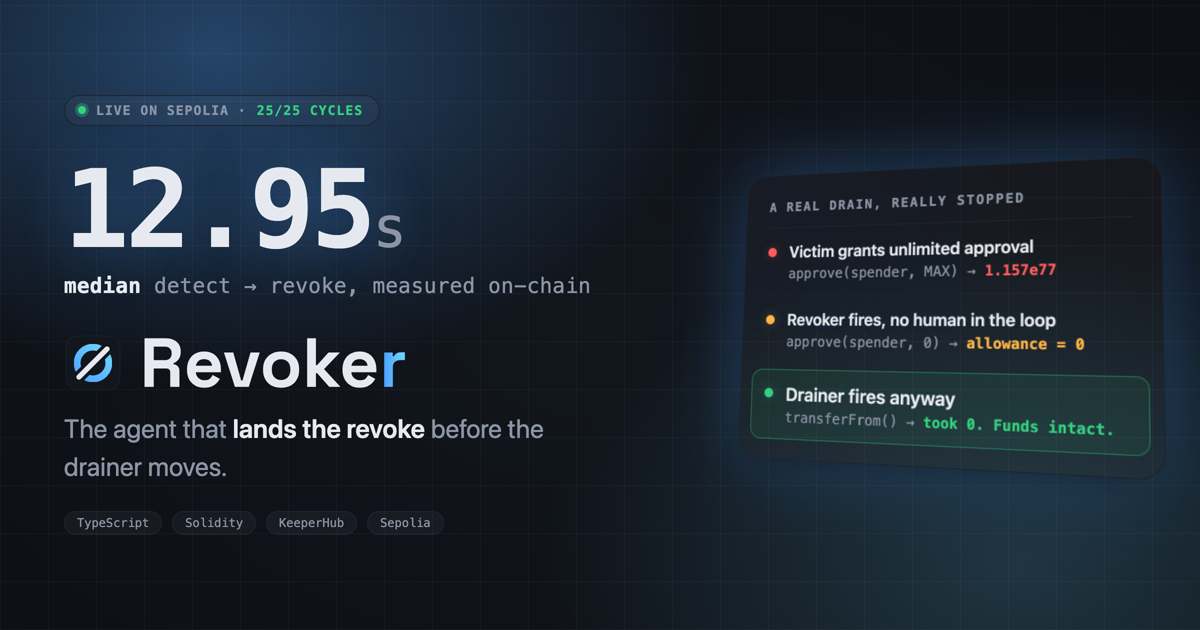
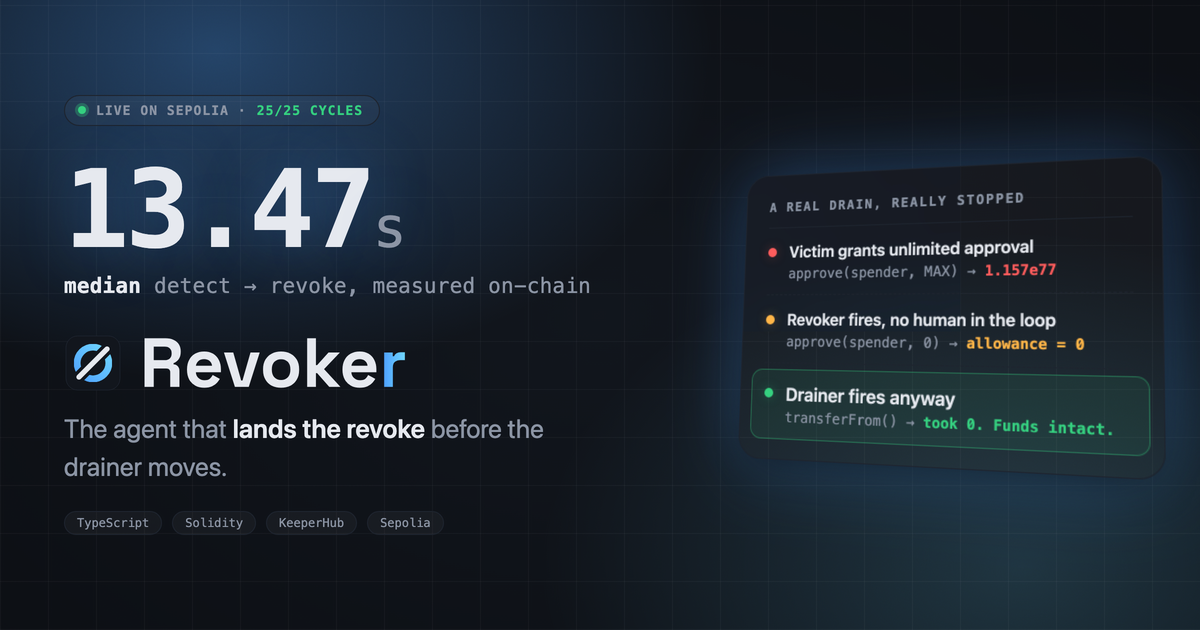
chore: re-run the benchmark on a fresh chain run and propagate the numbers
The demo video was being re-shot, so the whole proof surface was regenerated
from a new 25-cycle run on Sepolia rather than reusing figures measured against
an older set of transactions.

    response  p50 12.95s → 13.47s   p95 24.88s → 25.17s
    exposure  p50 13.38s → 13.71s   p95 25.01s → 25.55s
    gas per revoke  46482 (unchanged)   sponsored 25/25 (unchanged)

Everything downstream is regenerated from BENCHMARK.md, which the benchmark
writes itself — nothing here is hand-typed. That matters most for the per-cycle
arrays behind the landing and pitch charts: each bar links to the transaction it
was measured from, so after a fresh run every hash has to be replaced, not just
the headline figures. Two of the new hashes were re-read off Sepolia to confirm
they resolve and succeeded.

The og-image is regenerated too. It is written back at 1200x630 RGB rather than
the 2400x1260 the exporter produces: the 2x export is four times the weight for
a card that is never displayed above 1200 wide, and quantising it to a palette
instead puts visible banding across the dark gradient.

Changed region(s): [[0.185, 0.2413, 0.3083, 0.3921], [0.0925, 0.3016, 0.1542, 0.3921]]

diff --git a/site/index.html b/site/index.html
@@ -7,7 +7,7 @@
 <meta name="description" content="Revoker autonomously executes approve(spender, 0) through KeeperHub the instant a threat fires — no human in the loop. Proof: a real Sepolia drain, stopped." />
 <meta property="og:type" content="website" />
 <meta property="og:title" content="Revoker — the agent that lands the revoke before the drainer moves" />
-<meta property="og:description" content="Autonomous approval revocation through KeeperHub check-and-execute. A real drain, really stopped — 12.95s median detect→revoke, 25/25 cycles, every step a verifiable Sepolia transaction." />
+<meta property="og:description" content="Autonomous approval revocation through KeeperHub check-and-execute. A real drain, really stopped — 13.47s median detect→revoke, 25/25 cycles, every step a verifiable Sepolia transaction." />
 <meta property="og:url" content="https://revoker.edycu.dev/" />
   <meta property="og:image" content="https://revoker.edycu.dev/assets/og-image.png" />
   <meta property="og:image:width" content="1200" />
@@ -572,8 +572,8 @@ td.hot{color:var(--text); font-weight:700}
 
       <div class="statband">
         <div class="stat reveal">
-          <span class="stat-v"><span class="count" data-to="12.95" data-dec="2">12.95</span><span class="unit">s</span></span>
-          <span class="stat-l">median detect &rarr; revoke<br>(p95 24.88s)</span>
+          <span class="stat-v"><span class="count" data-to="13.47" data-dec="2">13.47</span><span class="unit">s</span></span>
+          <span class="stat-l">median detect &rarr; revoke<br>(p95 25.17s)</span>
         </div>
         <div class="stat reveal">
           <span class="stat-v"><span class="count" data-to="25" data-dec="0">25</span><span class="unit">/25</span></span>
@@ -808,7 +808,7 @@ td.hot{color:var(--text); font-weight:700}
           <tbody>
             <tr>
               <td class="rowlabel">response — detection &rarr; revoke confirmed</td>
-              <td class="hot">12.95s</td><td>24.88s</td><td>10.33s</td><td>24.95s</td>
+              <td class="hot">13.47s</td><td>25.17s</td><td>9.31s</td><td>26.55s</td>
             </tr>
             <tr>
               <td class="rowlabel">exposure — threat live &rarr; revoke confirmed</td>
@@ -992,39 +992,39 @@ td.hot{color:var(--text); font-weight:700}
 
   /* ---------- benchmark chart: real per-cycle data from BENCHMARK.md ---------- */
   var CYCLES = [
[50 lines of base64/hex data omitted]
   ];
-  var MAX = 25.28, P50 = 12.95, P95 = 24.88;
+  var MAX = 26.71, P50 = 13.47, P95 = 25.17;
   var bars = document.getElementById('bars');
   if (bars) {
     var frame = document.getElementById('chart-frame');
     /* frame is 150px with 14px top / 10px bottom padding → bars area is 126px,
        so a value v sits at bottom: (10 + v/MAX*126) / 150 of the frame. */
-    [[P50, 'p50 12.95s', false], [P95, 'p95 24.88s', true]].forEach(function (r) {
+    [[P50, 'p50 13.47s', false], [P95, 'p95 25.17s', true]].forEach(function (r) {
       var line = document.createElement('div');
       line.className = 'refline';
       line.style.bottom = ((10 + r[0] / MAX * 126) / 150 * 100).toFixed(1) + '%';

diff --git a/site/pitch.html b/site/pitch.html
@@ -667,8 +667,8 @@ h2{font-size:72px; line-height:1.06}
     <p class="eyebrow">Reliability &middot; 25 full cycles against live Sepolia</p>
     <h2>Measured, not claimed.</h2>
     <div class="statband">
-      <div class="stat"><span class="stat-v">12.95<span class="unit">s</span></span><span class="stat-l">median detect &rarr; revoke</span></div>
-      <div class="stat"><span class="stat-v">24.88<span class="unit">s</span></span><span class="stat-l">p95</span></div>
+      <div class="stat"><span class="stat-v">13.47<span class="unit">s</span></span><span class="stat-l">median detect &rarr; revoke</span></div>
+      <div class="stat"><span class="stat-v">25.17<span class="unit">s</span></span><span class="stat-l">p95</span></div>
       <div class="stat"><span class="stat-v">25<span class="unit">/25</span></span><span class="stat-l">cycles succeeded</span></div>
       <div class="stat"><span class="stat-v">46,482</span><span class="stat-l">gas per revoke (p50 = p95)</span></div>
     </div>
@@ -682,7 +682,7 @@ h2{font-size:72px; line-height:1.06}
       <span><b>86</b> tests — 44 TypeScript &middot; 42 Solidity</span>
       <span><b>100%</b> Solidity coverage — lines &middot; statements &middot; branches &middot; functions</span>
     </div>
-    <aside class="speaker-notes">Reliability, measured: twenty-five out of twenty-five cycles, 12.95 seconds median, gas identical at the p50 and p95. The amber bars are four consecutive cycles that hit a slow block window — that's the network, and we report the distribution instead of averaging it away. Behind it: 86 tests and 100 percent Solidity coverage on every axis.</aside>
+    <aside class="speaker-notes">Reliability, measured: twenty-five out of twenty-five cycles, 13.47 seconds median, gas identical at the p50 and p95. The amber bars are four consecutive cycles that hit a slow block window — that's the network, and we report the distribution instead of averaging it away. Behind it: 86 tests and 100 percent Solidity coverage on every axis.</aside>
   </section>
 
   <!-- ═══════════════ 10 · LIMITS ═══════════════ -->
@@ -777,31 +777,31 @@ h2{font-size:72px; line-height:1.06}
 
   /* ---------- benchmark chart: real per-cycle data from BENCHMARK.md ---------- */
   var CYCLES = [
[50 lines of base64/hex data omitted]
   ];
   var MAX = 25.28;
   var bars = document.getElementById('bars');
@@ -809,7 +809,7 @@ h2{font-size:72px; line-height:1.06}
     var frame = document.getElementById('chart-frame');
     /* frame is 300px with 18px top / 14px bottom padding → plot area 268px,
        so a value v sits at bottom: (14 + v/MAX*268) / 300 of the frame */
-    [[12.95, 'p50 12.95s', false], [24.88, 'p95 24.88s', true]].forEach(function (r) {
+    [[13.47, 'p50 13.47s', false], [25.17, 'p95 25.17s', true]].forEach(function (r) {
       var line = document.createElement('div');
       line.className = 'refline';
       line.style.bottom = ((14 + r[0] / MAX * 268) / 300 * 100).toFixed(1) + '%';

diff --git a/BENCHMARK.md b/BENCHMARK.md
@@ -1,6 +1,6 @@
 # Benchmark — detect→revoke
 
-> Generated by `pnpm bench` on 2026-08-08T00:37:05.896Z. Network: Ethereum Sepolia (11155111).
+> Generated by `pnpm bench` on 2026-08-08T07:06:29.397Z. Network: Ethereum Sepolia (11155111).
 > 25/25 cycles succeeded.
 
 ## What was measured
@@ -19,8 +19,8 @@ reading the chain, not by trusting the execution report.
 
 | Metric | p50 | p95 | min | max |
 |---|---|---|---|---|
-| response | 12.95s | 24.88s | 10.33s | 24.95s |
-| exposure | 13.38s | 25.01s | 10.47s | 25.28s |
+| response | 13.47s | 25.17s | 9.31s | 26.55s |
+| exposure | 13.71s | 25.55s | 9.72s | 26.71s |
 
 Gas per revoke: p50 **46482**, p95 **46482**.
 Sponsored by KeeperHub in 25/25 cycles.
@@ -51,28 +51,28 @@ Requires `KH_API_KEY`, `KH_WALLET_ADDRESS` and a funded Turnkey wallet. See READ
 
 | # | response | exposure | gas | tx |
 |---|---|---|---|---|
-| 1 | 12.06s | 12.40s | 46482 | [`0x77f6e43f…`](https://sepolia.etherscan.io/tx/0x77f6e43f9a701c52a4a0472a719be6307e4f760e9d03b7d54f615da25856dbf9) |
-| 2 | 12.47s | 12.80s | 46482 | [`0x5f7bba9d…`](https://sepolia.etherscan.io/tx/0x5f7bba9dc09d0bf99be82e5d7a905d330ea50e33b7c6cd94ba095a8de46dc25f) |
-| 3 | 11.91s | 12.26s | 46482 | [`0xf7a3a9cd…`](https://sepolia.etherscan.io/tx/0xf7a3a9cd28bbc62b111b7bc5c53a718b8fb664803b695a9a567a31ff5910765d) |
-| 4 | 13.60s | 13.91s | 46482 | [`0x2ab6e0c9…`](https://sepolia.etherscan.io/tx/0x2ab6e0c9493f241ca66a198ca885ae7fe7b493064c34a8c0dd4c832c0972f5db) |
-| 5 | 12.40s | 13.06s | 46482 | [`0x35a469b8…`](https://sepolia.etherscan.io/tx/0x35a469b8b8a2e8256acb4da9c834e67b8ef97275fb395b5b1faedda26f9ede96) |
-| 6 | 10.33s | 10.47s | 46482 | [`0xebc4b328…`](https://sepolia.etherscan.io/tx/0xebc4b3285721123ccd84d426a55f0a4094cab117781a57e1453af016fc48a065) |
-| 7 | 13.41s | 13.61s | 46482 | [`0x72167a29…`](https://sepolia.etherscan.io/tx/0x72167a29f8f5fd5e4093c1e6d5b28372717bd2ad12d0f46b93a08ed5692ed7f4) |
-| 8 | 12.59s | 12.88s | 46482 | [`0x368586b9…`](https://sepolia.etherscan.io/tx/0x368586b9188b2c264c8fe3379f174d507fba2951799033f259cd63fa35bcd712) |
-| 9 | 13.27s | 13.42s | 46458 | [`0x4a5962c0…`](https://sepolia.etherscan.io/tx/0x4a5962c0ce9bdb36732c205000ec6c62f1ff31f3e1df469cd68126ede7e52912) |
-| 10 | 24.95s | 25.28s | 46482 | [`0xd831c52d…`](https://sepolia.etherscan.io/tx/0xd831c52d270f53fc0c2b8de7a7c31850fb83c29e8c1b4b1e28bd938ede6b8be5) |
-| 11 | 22.60s | 23.00s | 46470 | [`0x5f9b3ad9…`](https://sepolia.etherscan.io/tx/0x5f9b3ad9021d8f486a2b25bafc37aba9fc26480c52ff6587575241b4324ed774) |
-| 12 | 23.48s | 23.85s | 46470 | [`0x626d893f…`](https://sepolia.etherscan.io/tx/0x626d893f26de7512e54d5db913ab6941205e76d9c1b8861b91d1af73efc6478b) |
-| 13 | 24.88s | 25.01s | 46482 | [`0x66ded1b5…`](https://sepolia.etherscan.io/tx/0x66ded1b5548c0cb46c531577ed1a0cc873a24f28380646f23d12b2ddb3864829) |
-| 14 | 12.95s | 13.32s | 46482 | [`0xbb3d8c34…`](https://sepolia.etherscan.io/tx/0xbb3d8c34b5dc10b8df1d707316b821274e3862327a616b86d0fa15149d1acdde) |
-| 15 | 12.86s | 13.00s | 46482 | [`0xafc93446…`](https://sepolia.etherscan.io/tx/0xafc93446a6a003b7442ba617b82056b1604a63aa1ff7c8e122a2f9b699ddcffb) |
-| 16 | 12.77s | 13.09s | 46482 | [`0x7bd1b54d…`](https://sepolia.etherscan.io/tx/0x7bd1b54d4d00ffb9659bdb6c6e8347c85837ba78507beba6289e703d8bf62cfd) |
-| 17 | 12.74s | 12.89s | 46482 | [`0xf65640d8…`](https://sepolia.etherscan.io/tx/0xf65640d824434ccc491cd51a3825259a3825ccb86c6115075066fbf33669d75b) |
-| 18 | 13.60s | 13.76s | 46482 | [`0x0f628f80…`](https://sepolia.etherscan.io/tx/0x0f628f80aa686cc0390a0ef4ba06fd1ba8531f7616e2acc37b690ad5303f0393) |
-| 19 | 12.71s | 13.20s | 46482 | [`0xd8769ad2…`](https://sepolia.etherscan.io/tx/0xd8769ad2319528bc7157964b289d80b382c62814447c5e4e6a35177e4a646475) |
-| 20 | 12.82s | 13.18s | 46470 | [`0x12eb7240…`](https://sepolia.etherscan.io/tx/0x12eb7240c2f7a6c76a5b26fb2c928b79caf0cb7865031c154e36fe8a66483e6c) |
-| 21 | 12.63s | 13.38s | 46482 | [`0x9b01908d…`](https://sepolia.etherscan.io/tx/0x9b01908d6c60332d5492d614b1bb0a62ee119e60bf058ff1fa0c89035c64f5fd) |
-| 22 | 13.62s | 13.75s | 46482 | [`0x68a3be30…`](https://sepolia.etherscan.io/tx/0x68a3be305e911322f5b3275a7cc8eacccb8a408dbc646384fd5d236180f878d8) |
-| 23 | 13.33s | 13.63s | 46482 | [`0x7fba3a08…`](https://sepolia.etherscan.io/tx/0x7fba3a082c7ed7b5fb6cf6bafff1e8e4c05fccbc925e517ea3008806e03bcf6e) |
-| 24 | 13.40s | 13.60s | 46482 | [`0xfe63a209…`](https://sepolia.etherscan.io/tx/0xfe63a209b9d8a1615525eb6c71a79b4539d6099f5c7bc2657412230bb87e23fa) |
-| 25 | 13.72s | 14.08s | 46482 | [`0xd07984bc…`](https://sepolia.etherscan.io/tx/0xd07984bc414c3eda85230ab80893ebf1e7c7f04996b23393c78045e0027204fc) |
+| 1 | 25.17s | 25.55s | 46482 | [`0x3bd33bbb…`](https://sepolia.etherscan.io/tx/0x3bd33bbb4b379f8ec746d7e0b3205565f74a951da1a874a5893a56b5b29fd390) |
+| 2 | 12.21s | 12.36s | 46470 | [`0x2c11419b…`](https://sepolia.etherscan.io/tx/0x2c11419b27756413bc484661b02a0c441280adbe365e430c48f0e4b2b29358d6) |
+| 3 | 13.52s | 13.89s | 46482 | [`0x2347c5fe…`](https://sepolia.etherscan.io/tx/0x2347c5feceeca5ed848b6c181f5aa56cf259c69185021ce4f9e2a29cac953b32) |
+| 4 | 13.55s | 13.84s | 46482 | [`0x9efd85d2…`](https://sepolia.etherscan.io/tx/0x9efd85d2b3d009024928ce151dc948fdabd0ec91d98fc7bafe14a1dcbe8a41c5) |
+| 5 | 12.55s | 12.93s | 46470 | [`0xd2268708…`](https://sepolia.etherscan.io/tx/0xd22687088d58c27c2bc84336f6bc962bf8e97b5559f5705c18b5bff2394985ce) |
+| 6 | 13.38s | 13.58s | 46482 | [`0xb7ea0fbd…`](https://sepolia.etherscan.io/tx/0xb7ea0fbdbc5da30b445cb640ffd4135471b68b772ac2366b958b3721c98437ee) |
+| 7 | 13.34s | 13.55s | 46470 | [`0xb49e5188…`](https://sepolia.etherscan.io/tx/0xb49e51883099c7ebe1f8acc8c6cf43f297b0a97a464687f0a50c568d8502eeb6) |
+| 8 | 13.47s | 13.87s | 46482 | [`0x60ff32eb…`](https://sepolia.etherscan.io/tx/0x60ff32ebe82285e6a57b03c754fc18dbc7baed61586e919e7d5666fb71c07ec9) |
+| 9 | 13.49s | 13.71s | 46470 | [`0xd5ac191f…`](https://sepolia.etherscan.io/tx/0xd5ac191f8a552a883e59f396006b8adcdb19b81430f961a5589f9b2c454e1146) |
+| 10 | 13.55s | 13.92s | 46482 | [`0x4db55891…`](https://sepolia.etherscan.io/tx/0x4db55891e703f41e10d5af8577c8a0c2becd2649a2291e4b9e5d68b46de94a59) |
+| 11 | 14.91s | 15.33s | 46482 | [`0x7e9a2287…`](https://sepolia.etherscan.io/tx/0x7e9a228797c97449bbec544332c3495d1b3d3c2d39d5f5d6dac73caebb903a40) |
+| 12 | 12.72s | 12.88s | 46482 | [`0xc205a583…`](https://sepolia.etherscan.io/tx/0xc205a58388b5e4228c596fabf4fc0d3b493f8fb2ebc10bc5c40f006964fc72e3) |
+| 13 | 26.55s | 26.71s | 46482 | [`0xbc335472…`](https://sepolia.etherscan.io/tx/0xbc335472fad41e9d46958fe47b30290ba6e863c98d35133880662aac3a047feb) |
+| 14 | 9.31s | 9.72s | 46482 | [`0xec2657bc…`](https://sepolia.etherscan.io/tx/0xec2657bc0d4dc2bfb3acefa78ec29aeae252fb110f6463b5c82187a61ebe3513) |
+| 15 | 12.24s | 12.56s | 46470 | [`0x9109fea7…`](https://sepolia.etherscan.io/tx/0x9109fea7631d117eb3b33e27446dc79c1616a49e276f0c5ea8fd06058f4b61ca) |
+| 16 | 9.87s | 10.18s | 46482 | [`0x97c38f11…`](https://sepolia.etherscan.io/tx/0x97c38f118e42f8c3edbef64d0621251414ee57f23d8c25e2400916f862c43879) |
+| 17 | 13.15s | 13.29s | 46482 | [`0x5965349b…`](https://sepolia.etherscan.io/tx/0x5965349b0d8b7ca1c653828e319466bcac94595c6c3fa30e69362ab510744b64) |
+| 18 | 24.39s | 24.69s | 46482 | [`0xab8a4e7b…`](https://sepolia.etherscan.io/tx/0xab8a4e7beef177d22048c119fe962d3d0ac981dd5dc12f834511e91f2ef01e25) |
+| 19 | 11.73s | 12.13s | 46482 | [`0x69566a1d…`](https://sepolia.etherscan.io/tx/0x69566a1df5e6a183a519ee6e3381743bf906f1f235484f00c46c88e741c0a776) |
+| 20 | 12.77s | 13.14s | 46482 | [`0x55157993…`](https://sepolia.etherscan.io/tx/0x551579937bc9519c3f8c5be1596a111e0406d1272782275dcdb6d71f959cfcc7) |
+| 21 | 11.90s | 12.05s | 46482 | [`0x08eab4b2…`](https://sepolia.etherscan.io/tx/0x08eab4b20e414b11474a61c222182e06f5b351ff3aaa04a9e4dc1fbd44ac9275) |
+| 22 | 13.53s | 13.86s | 46482 | [`0x88bdfc9a…`](https://sepolia.etherscan.io/tx/0x88bdfc9aa60a9eb1268fa4d8e48f1eef8338b18a77b029e6aef32f9eec0a680f) |
+| 23 | 13.62s | 13.77s | 46470 | [`0x15b32cbf…`](https://sepolia.etherscan.io/tx/0x15b32cbf62202bb1b4fae5f667a6fd45e635b0c60f355a0e504a014dc915bfe1) |
+| 24 | 13.78s | 13.93s | 46482 | [`0x9b0452de…`](https://sepolia.etherscan.io/tx/0x9b0452de80c5a1aba69bea56e324a4f4553d5dc6cd196b730f19aa6b09d4cd11) |
+| 25 | 13.55s | 13.87s | 46470 | [`0x0beb79e8…`](https://sepolia.etherscan.io/tx/0x0beb79e87af655197afc3c441c28e6dd9c295c778fc03e69ae91a68dab6a5947) |

diff --git a/README.md b/README.md
@@ -238,8 +238,8 @@ signer address in the `from` field.
 
 | Metric | p50 | p95 | min | max |
 |---|---|---|---|---|
-| **response** — detection → revoke confirmed | **12.95s** | 24.88s | 10.33s | 24.95s |
-| **exposure** — threat live → revoke confirmed | **13.38s** | 25.01s | 10.47s | 25.28s |
+| **response** — detection → revoke confirmed | **13.47s** | 25.17s | 9.31s | 26.55s |
+| **exposure** — threat live → revoke confirmed | **13.71s** | 25.55s | 9.72s | 26.71s |
 
 25/25 cycles succeeded. Gas per revoke was 46,482 at both p50 and p95 (range
 46,458–46,482 across the run), sponsored in every cycle. Two figures rather than
